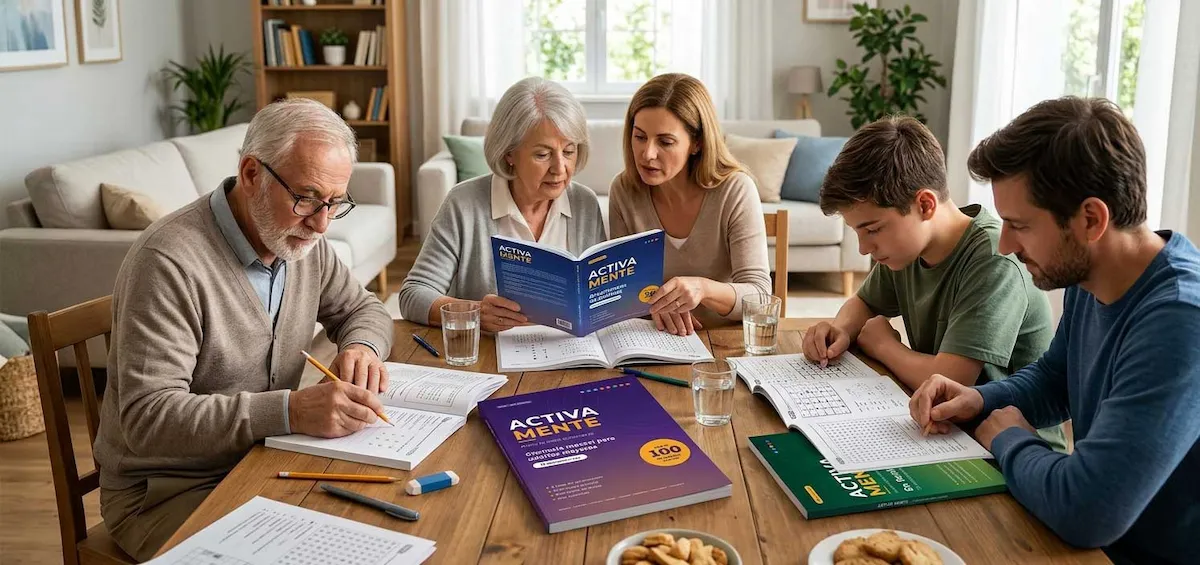
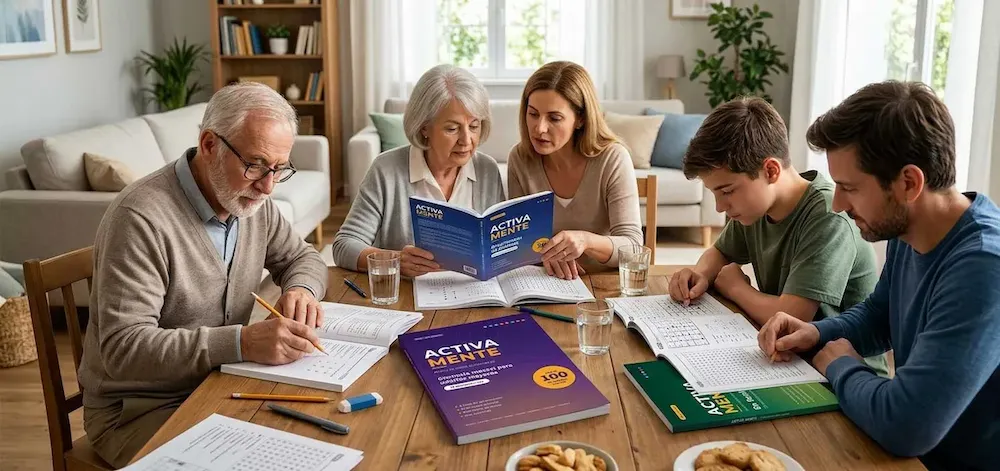
Add files via upload
Update: resize webp images

diff --git a/index.html b/index.html
@@ -75,7 +75,7 @@
 
                 <!-- Mockup del ebook -->
                 <div class="md:col-span-5 flex justify-center">
-                    <img src="Mockup-Ebook.jpg" alt="Activa Mente. Gimnasia mental para adultos mayores" width="864" height="1222" class="rounded-2xl shadow-2xl border border-slate-700/50 w-full max-w-[340px] h-auto object-cover">
+                    <img src="Mockup-Ebook.webp" alt="Activa Mente. Gimnasia mental para adultos mayores" width="864" height="1222" class="rounded-2xl shadow-2xl border border-slate-700/50 w-full max-w-[340px] h-auto object-cover">
                 </div>
 
                 <!-- Detalle / CTA -->
@@ -125,7 +125,7 @@
 
                 <!-- Bono 1 -->
                 <article class="bg-slate-800/50 border border-slate-700/50 rounded-3xl overflow-hidden flex flex-col">
-                    <img src="Mockup-Bono1.jpg" alt="Bono #1: Pasatiempos de palabras" width="864" height="1221" loading="lazy" class="w-full h-auto">
+                    <img src="Mockup-Bono1.webp" alt="Bono #1: Pasatiempos de palabras" width="864" height="1221" loading="lazy" class="w-full h-auto">
                     <div class="p-6 space-y-3">
                         <div class="flex items-center justify-between gap-3">
                             <span class="text-amber-400 font-bold text-sm">Bono #1</span>
@@ -140,7 +140,7 @@
 
                 <!-- Bono 2 -->
                 <article class="bg-slate-800/50 border border-slate-700/50 rounded-3xl overflow-hidden flex flex-col">
-                    <img src="Mockup-Bono2.jpg" alt="Bono #2: En familia" width="864" height="1224" loading="lazy" class="w-full h-auto">
+                    <img src="Mockup-Bono2.webp" alt="Bono #2: En familia" width="864" height="1224" loading="lazy" class="w-full h-auto">
                     <div class="p-6 space-y-3">
                         <div class="flex items-center justify-between gap-3">
                             <span class="text-amber-400 font-bold text-sm">Bono #2</span>
@@ -258,7 +258,7 @@
 
         <!-- Mockup de los 3 ebooks -->
         <div class="mt-10">
-            <img src="Mockup-3-ebooks.jpg" alt="Los 3 ebooks incluidos: Activa Mente, Pasatiempos de palabras y En familia" width="1494" height="704" loading="lazy" class="w-full h-auto rounded-3xl border border-slate-700/60 shadow-2xl">
+            <img src="Mockup-3-ebooks.webp" alt="Los 3 ebooks incluidos: Activa Mente, Pasatiempos de palabras y En familia" width="1494" height="704" loading="lazy" class="w-full h-auto rounded-3xl border border-slate-700/60 shadow-2xl">
         </div>
     </section>
 
